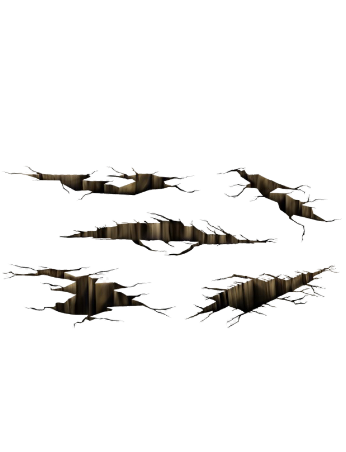
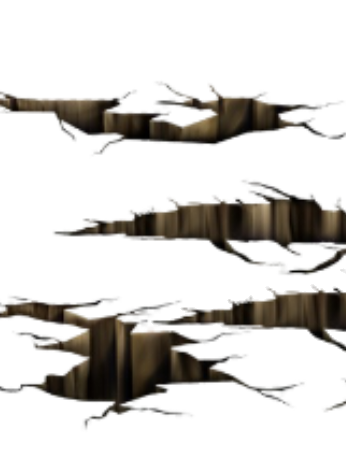
Add files via upload

diff --git a/game.html b/game.html
@@ -7,7 +7,7 @@
     <link rel="icon" href="fav-icon.jpg" type="image/jpeg">
     <link rel="preconnect" href="https://fonts.googleapis.com">
     <link rel="preconnect" href="https://fonts.gstatic.com" crossorigin>
-    <link href="https://fonts.googleapis.com/css2?family=Manrope:wght@500;700;800&family=Space+Grotesk:wght@500;700&display=swap" rel="stylesheet">
+    <link href="https://fonts.googleapis.com/css2?family=Manrope:wght@500;700;800&family=Orbitron:wght@700;800&family=Space+Grotesk:wght@500;700&display=swap" rel="stylesheet">
     <style>
         :root {
             --bg: #06080d;
@@ -90,10 +90,15 @@
         }
 
         .title-wrap h1 {
-            font-family: "Space Grotesk", sans-serif;
+            font-family: "Orbitron", "Space Grotesk", sans-serif;
             font-size: clamp(1.55rem, 4vw, 2.3rem);
             text-transform: uppercase;
-            letter-spacing: 0.04em;
+            letter-spacing: 0.05em;
+            color: #ffffff;
+            text-shadow:
+                0 0 10px rgba(255, 255, 255, 0.34),
+                0 0 18px rgba(224, 25, 39, 0.42),
+                0 0 32px rgba(224, 25, 39, 0.26);
         }
 
         .game-card {
@@ -130,7 +135,7 @@
         .touch-controls {
             display: none;
             justify-content: center;
-            gap: 14px;
+            gap: 54px;
             margin-top: 14px;
         }
 
@@ -194,16 +199,16 @@
         .hud-box span {
             display: block;
             color: rgba(248, 250, 252, 0.66);
-            font-size: 0.66rem;
+            font-size: 0.92rem;
             text-transform: uppercase;
-            letter-spacing: 0.12em;
+            letter-spacing: 0.06em;
         }
 
         .hud-box strong {
             display: block;
             margin-top: 4px;
             font-family: "Space Grotesk", sans-serif;
-            font-size: 1rem;
+            font-size: 0.92rem;
         }
 
         .hud-box {
@@ -214,24 +219,20 @@
         .hud-box span {
             display: block;
             color: rgba(248, 250, 252, 0.66);
-            font-size: 0.66rem;
+            font-size: 0.92rem;
             text-transform: uppercase;
-            letter-spacing: 0.12em;
+            letter-spacing: 0.06em;
         }
 
         .hud-box strong {
             display: block;
             margin-top: 4px;
             font-family: "Space Grotesk", sans-serif;
-            font-size: 1rem;
+            font-size: 0.92rem;
         }
 
         .speedometer {
             min-width: 132px;
-        }
-
-        .speedometer strong {
-            font-size: 1.32rem;
         }
 
         .level-sign {
@@ -291,11 +292,13 @@
             }
 
             .fullscreen-btn {
-                align-self: center;
+                display: none;
             }
 
             .touch-controls {
                 display: flex;
+                gap: 78px;
+                margin-top: 16px;
             }
         }
 
@@ -324,10 +327,15 @@
         }
 
         .overlay-box h2 {
-            font-family: "Space Grotesk", sans-serif;
+            font-family: "Orbitron", "Space Grotesk", sans-serif;
             text-transform: uppercase;
             font-size: clamp(1.5rem, 3vw, 2rem);
             margin-bottom: 10px;
+            color: #ffffff;
+            text-shadow:
+                0 0 10px rgba(255, 255, 255, 0.28),
+                0 0 18px rgba(224, 25, 39, 0.36),
+                0 0 26px rgba(224, 25, 39, 0.22);
         }
 
         .cover-car {
@@ -361,21 +369,38 @@
                 padding: 14px 10px;
             }
 
+            .cover-car {
+                width: min(152px, 42vw);
+                margin-bottom: 12px;
+            }
+
             .overlay-box h2 {
-                font-size: clamp(1.2rem, 6vw, 1.6rem);
+                font-size: clamp(1.05rem, 5vw, 1.35rem);
+                margin-bottom: 6px;
             }
 
             .overlay-box p {
-                font-size: 0.94rem;
+                font-size: 0.82rem;
+                line-height: 1.35;
+                margin-bottom: 12px;
             }
 
             .overlay-box {
-                max-width: min(100%, 360px);
+                max-width: min(100%, 300px);
                 padding: 0;
             }
 
             .start-btn {
                 width: 100%;
+                min-height: 46px;
+                padding: 12px 16px;
+                font-size: 0.92rem;
+            }
+
+            .touch-btn {
+                min-width: 108px;
+                min-height: 64px;
+                font-size: 1.7rem;
             }
         }
 
@@ -405,13 +430,13 @@
                 </div>
                 <div class="game-hud">
                     <div class="hud-stack">
-                        <div class="hud-box speedometer">
-                            <span>Velocidade</span>
-                            <strong id="speed">0 km/h</strong>
-                        </div>
                         <div class="hud-box">
                             <span>Kilometragem</span>
                             <strong id="score">0 km</strong>
+                        </div>
+                        <div class="hud-box speedometer">
+                            <span>Velocidade</span>
+                            <strong id="speed">0 km/h</strong>
                         </div>
                         <div class="hud-box">
                             <span>Ultrapassagens</span>
@@ -487,6 +512,19 @@
             { x: 180, y: 96, scale: 1.2, speed: 14, alpha: 0.46 },
             { x: 760, y: 78, scale: 1.55, speed: 10, alpha: 0.4 },
             { x: 1160, y: 132, scale: 0.95, speed: 18, alpha: 0.34 }
+        ];
+        const stars = [
+            { x: 0.08, y: 0.09, size: 1.8, twinkle: 0.4 },
+            { x: 0.15, y: 0.18, size: 2.2, twinkle: 1.2 },
+            { x: 0.22, y: 0.07, size: 1.6, twinkle: 2.1 },
+            { x: 0.31, y: 0.16, size: 2.4, twinkle: 0.8 },
+            { x: 0.42, y: 0.1, size: 1.9, twinkle: 1.7 },
+            { x: 0.5, y: 0.2, size: 1.5, twinkle: 2.6 },
+            { x: 0.59, y: 0.06, size: 2.2, twinkle: 1.4 },
+            { x: 0.68, y: 0.15, size: 1.7, twinkle: 0.9 },
+            { x: 0.77, y: 0.08, size: 2.5, twinkle: 2.4 },
+            { x: 0.86, y: 0.17, size: 1.8, twinkle: 1.1 },
+            { x: 0.93, y: 0.11, size: 2.1, twinkle: 2.9 }
         ];
 
         const input = {
@@ -639,11 +677,55 @@
             input[action] = active;
         }
 
+        function mixNumber(start, end, amount) {
+            return start + (end - start) * amount;
+        }
+
+        function mixColor(from, to, amount) {
+            return `rgb(${Math.round(mixNumber(from[0], to[0], amount))}, ${Math.round(mixNumber(from[1], to[1], amount))}, ${Math.round(mixNumber(from[2], to[2], amount))})`;
+        }
+
         function getSkyPalette() {
-            const cycle = (Math.sin(world.time * 0.08) + 1) / 2;
-            const top = `rgb(${Math.round(32 + cycle * 90)}, ${Math.round(68 + cycle * 92)}, ${Math.round(130 + cycle * 70)})`;
-            const bottom = `rgb(${Math.round(235 - cycle * 90)}, ${Math.round(145 + cycle * 50)}, ${Math.round(120 + cycle * 80)})`;
-            return { top, bottom, cycle };
+            const progress = Math.max(0, Math.min(1, world.passes / 80));
+            const morningTop = [92, 170, 245];
+            const morningBottom = [198, 228, 255];
+            const afternoonTop = [255, 148, 104];
+            const afternoonBottom = [255, 210, 150];
+            const nightTop = [14, 22, 58];
+            const nightBottom = [38, 66, 126];
+            let top;
+            let bottom;
+
+            if (progress < 0.45) {
+                const phase = progress / 0.45;
+                top = mixColor(morningTop, afternoonTop, phase);
+                bottom = mixColor(morningBottom, afternoonBottom, phase);
+            } else {
+                const phase = (progress - 0.45) / 0.55;
+                top = mixColor(afternoonTop, nightTop, phase);
+                bottom = mixColor(afternoonBottom, nightBottom, phase);
+            }
+
+            const sunStrength = Math.max(0, 1 - progress * 1.35);
+            const sunsetStrength = progress < 0.7 ? Math.max(0, 1 - Math.abs(progress - 0.45) / 0.25) : 0;
+            const starOpacity = Math.max(0, (progress - 0.58) / 0.42);
+
+            return { top, bottom, progress, sunStrength, sunsetStrength, starOpacity };
+        }
+
+        function drawStars(sky) {
+            if (sky.starOpacity <= 0) {
+                return;
+            }
+
+            stars.forEach((star) => {
+                const pulse = 0.45 + 0.55 * ((Math.sin(world.time * 1.8 + star.twinkle) + 1) / 2);
+                const alpha = sky.starOpacity * pulse * 0.9;
+                ctx.fillStyle = `rgba(255,255,245,${alpha})`;
+                ctx.beginPath();
+                ctx.arc(canvas.width * star.x, canvas.height * (0.03 + star.y * 0.72), star.size * getScaleX(), 0, Math.PI * 2);
+                ctx.fill();
+            });
         }
 
         function drawCloud(x, y, scale, alpha) {
@@ -667,13 +749,33 @@
             ctx.fillStyle = skyGradient;
             ctx.fillRect(0, 0, canvas.width, canvas.height * 0.28);
 
-            ctx.fillStyle = `rgba(255, 230, 150, ${0.18 + (1 - sky.cycle) * 0.35})`;
-            ctx.beginPath();
-            ctx.arc(canvas.width * 0.82, canvas.height * 0.1, 34 + sky.cycle * 10, 0, Math.PI * 2);
-            ctx.fill();
+            drawStars(sky);
+
+            if (sky.sunStrength > 0.04 || sky.sunsetStrength > 0.1) {
+                ctx.fillStyle = `rgba(255, 236, 168, ${0.16 + sky.sunStrength * 0.32 + sky.sunsetStrength * 0.12})`;
+                ctx.beginPath();
+                ctx.arc(canvas.width * 0.82, canvas.height * 0.1, 24 + sky.sunStrength * 18 + sky.sunsetStrength * 10, 0, Math.PI * 2);
+                ctx.fill();
+            }
+
+            if (sky.sunsetStrength > 0.08) {
+                const sunsetGlow = ctx.createRadialGradient(
+                    canvas.width * 0.8,
+                    canvas.height * 0.12,
+                    10,
+                    canvas.width * 0.8,
+                    canvas.height * 0.12,
+                    canvas.width * 0.18
+                );
+                sunsetGlow.addColorStop(0, `rgba(255, 171, 84, ${0.22 * sky.sunsetStrength})`);
+                sunsetGlow.addColorStop(1, "rgba(255, 171, 84, 0)");
+                ctx.fillStyle = sunsetGlow;
+                ctx.fillRect(canvas.width * 0.6, 0, canvas.width * 0.32, canvas.height * 0.28);
+            }
 
             clouds.forEach((cloud) => {
-                drawCloud(cloud.x, cloud.y, cloud.scale, cloud.alpha + sky.cycle * 0.06);
+                const cloudAlpha = cloud.alpha * (1 - sky.starOpacity * 0.55) + sky.sunsetStrength * 0.08;
+                drawCloud(cloud.x, cloud.y, cloud.scale, cloudAlpha);
             });
         }
 
@@ -703,32 +805,22 @@
             ctx.closePath();
             ctx.fill();
 
-            ctx.fillStyle = "rgba(255,255,255,0.035)";
-            for (let i = 0; i < 16; i += 1) {
-                const t = ((i * 180 + world.roadOffset * 0.45) % 2200) / 2200;
-                const y = horizonY + t * (canvas.height - horizonY);
-                const width = 10 + t * 22;
-                const height = 2 + t * 4;
-                ctx.fillRect(centerX - roadBottomWidth * 0.24, y, width, height);
-                ctx.fillRect(centerX + roadBottomWidth * 0.18, y, width, height);
-            }
-
             ctx.fillStyle = "#e7ebf5";
-            for (let i = 0; i < 18; i += 1) {
-                const t = ((i * 160 + world.roadOffset) % 2200) / 2200;
+            for (let i = 0; i < 12; i += 1) {
+                const t = ((i * 240 + world.roadOffset) % 2200) / 2200;
                 const y = horizonY + t * (canvas.height - horizonY);
                 const width = 6 + t * 12;
-                const height = 14 + t * 34;
+                const height = 10 + t * 16;
                 ctx.fillRect(centerX - width / 2, y, width, height);
             }
 
-            ctx.strokeStyle = "#f7fafc";
-            ctx.lineWidth = 5;
+            ctx.strokeStyle = "rgba(38, 42, 50, 0.9)";
+            ctx.lineWidth = 3;
             ctx.beginPath();
-            ctx.moveTo(centerX - roadTopWidth / 2, horizonY);
-            ctx.lineTo(centerX - roadBottomWidth / 2, canvas.height);
-            ctx.moveTo(centerX + roadTopWidth / 2, horizonY);
-            ctx.lineTo(centerX + roadBottomWidth / 2, canvas.height);
+            ctx.moveTo(centerX - roadTopWidth / 2 + 2, horizonY);
+            ctx.lineTo(centerX - roadBottomWidth / 2 + 4, canvas.height);
+            ctx.moveTo(centerX + roadTopWidth / 2 - 2, horizonY);
+            ctx.lineTo(centerX + roadBottomWidth / 2 - 4, canvas.height);
             ctx.stroke();
 
             ctx.fillStyle = "#d8b36a";
